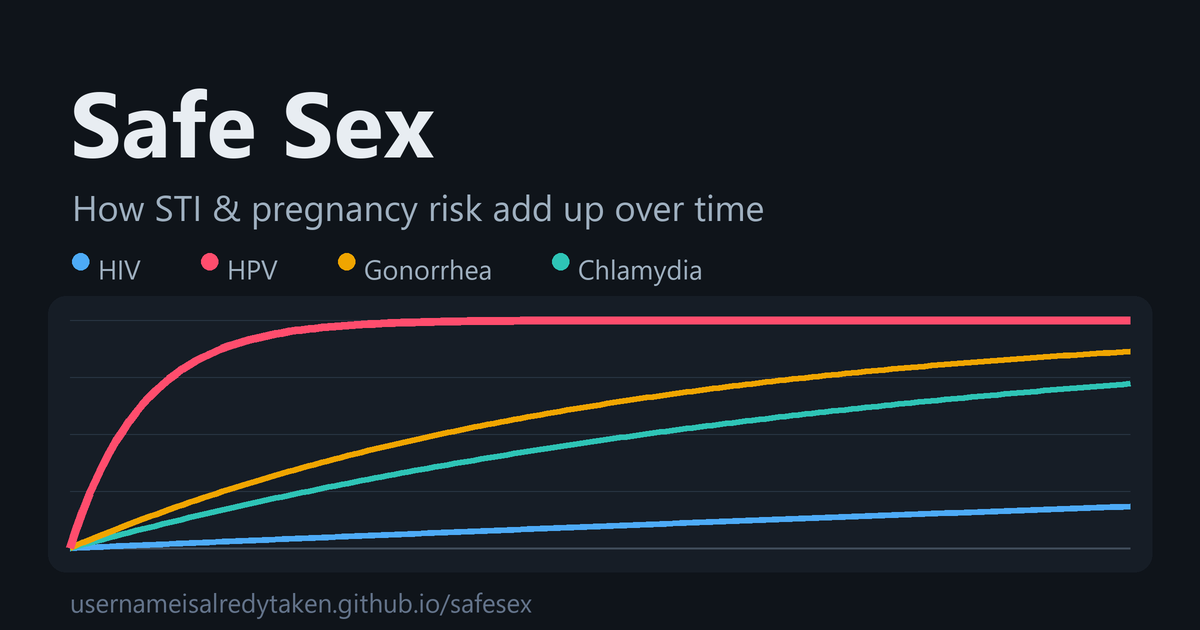
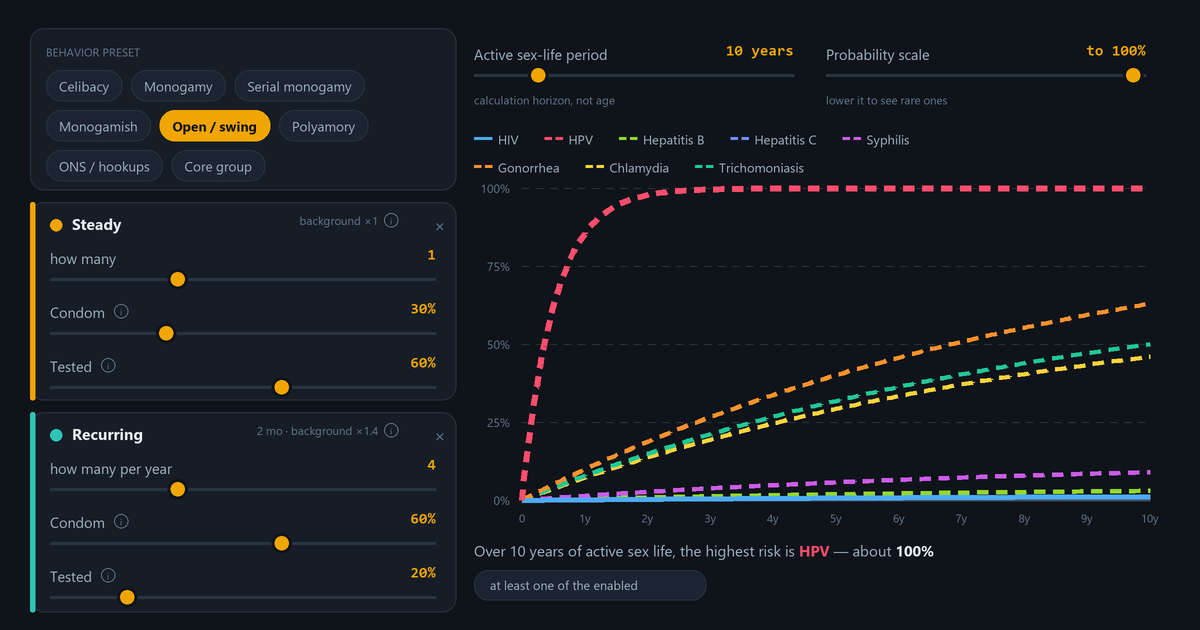
Compact share links; site-like social preview image
- Share link serialization is now compact: short keys, defaults omitted,
  preset index instead of full config, bitmasks for sex acts / hidden
  lines, derived poolMul dropped. A shared link drops from ~1070 chars to
  13 (defaults) / 22 (a preset) / ~80 (fully custom). Backward-compatible
  with the old v:1 links. Verified round-trip on both tabs.
- og.png redrawn to mirror the actual UI (preset pills, partner cards
  with sliders, chart with dashed risk curves + legend) instead of the
  minimalist version; og:image bumped to ?v=2 to bust social caches.

diff --git a/src/App.jsx b/src/App.jsx
@@ -1487,9 +1487,88 @@ function LangSwitch({ lang, setLang }) {
   );
 }
 
-// --- «Поделиться»: состояние ⇄ ссылка (хэш #c=base64url). Hash работает на любом подпути GitHub Pages и без перезагрузки. ---
+// --- «Поделиться»: КОМПАКТНАЯ сериализация состояния ⇄ ссылка (хэш #c=base64url) ---
+// Короткие ключи + пропуск дефолтов + битовые маски + индекс пресета вместо полного cfg.
+// Hash работает на любом подпути GitHub Pages без перезагрузки. Старый формат v:1 принимается как есть.
+const SHARE_TKEYS = ["steady", "casual", "hookup"];
+const STI_KEYS = STIS.map((s) => s.key);
+const PRESET_KEYS = PRESETS.map((p) => p.key);
+const PREG_PRESET_KEYS = PREG_PRESETS.map((p) => p.key);
+const STI_FIELDS = ["count", "condom", "perWeek", "dur", "tested"]; // poolMul — производное, не сериализуем
+const PREG_FIELDS = ["count", "perWeek", "dur", "age"];             // + meth отдельным слотом
+const actsToMask = (a) => ACT_KEYS.reduce((m, k, i) => m | (a && a[k] ? 1 << i : 0), 0);
+const maskToActs = (m) => { const o = {}; ACT_KEYS.forEach((k, i) => { o[k] = !!(m & (1 << i)); }); return o; };
+const DEF_ACTS_MASK = actsToMask({ vagR: true, oralR: true, oralI: true });
+const hiddenToMask = (h) => STI_KEYS.reduce((m, k, i) => m | (h && h[k] ? 1 << i : 0), 0);
+const maskToHidden = (m) => { const o = {}; STI_KEYS.forEach((k, i) => { if (m & (1 << i)) o[k] = true; }); return o; };
+const isDefMeth = (m) => !!m && Object.keys(m).length === 1 && m.condom_m === 100;
+const packStiCfg = (cfg) => SHARE_TKEYS.map((k) => (Math.round(cfg[k].count) > 0 ? STI_FIELDS.map((f) => cfg[k][f]) : 0));
+const unpackStiCfg = (arr) => {
+  const c = mkCfg(); // все count 0, остальное из BASE (incl. poolMul)
+  (arr || []).forEach((a, i) => { if (Array.isArray(a)) STI_FIELDS.forEach((f, j) => (c[SHARE_TKEYS[i]][f] = a[j])); });
+  return c;
+};
+const packPregCfg = (cfg) => SHARE_TKEYS.map((k) => { const t = cfg[k]; return t.count > 0 ? [...PREG_FIELDS.map((f) => t[f]), isDefMeth(t.meth) ? 0 : t.meth] : 0; });
+const unpackPregCfg = (arr) => {
+  const c = mkPregCfg();
+  (arr || []).forEach((a, i) => { if (Array.isArray(a)) { const t = c[SHARE_TKEYS[i]]; PREG_FIELDS.forEach((f, j) => (t[f] = a[j])); t.meth = a[4] ? a[4] : { condom_m: 100 }; } });
+  return c;
+};
+
+function buildShare(s) {
+  const o = { v: 2 };
+  if (s.lang !== "en") o.l = s.lang;
+  if (s.mode !== "sti") o.m = 1;
+  if (s.who !== "woman") o.g = 1;
+  if (s.years !== 10) o.y = s.years;
+  if (s.yMax !== 100) o.ym = s.yMax;
+  // ЗППП: «open» — дефолт (опускаем); другой пресет → индекс; кастом → компактный cfg.
+  // Любая ручная правка обнуляет activePreset, поэтому при наличии пресета cfg всегда = mkCfg(preset).
+  if (s.preset === "open") { /* дефолт */ }
+  else if (s.preset && PRESET_KEYS.indexOf(s.preset) >= 0) o.ps = PRESET_KEYS.indexOf(s.preset);
+  else o.c = packStiCfg(s.cfg);
+  const am = actsToMask(s.acts); if (am !== DEF_ACTS_MASK) o.a = am;
+  const hm = hiddenToMask(s.hidden); if (hm) o.h = hm;
+  if (s.vaxHpv) o.vh = 1;
+  if (s.vaxHbv) o.vb = 1;
+  if (s.selected !== "chl" && STI_KEYS.indexOf(s.selected) >= 0) o.s = STI_KEYS.indexOf(s.selected);
+  if (s.showAny) o.sa = 1;
+  // Беременность — девушка
+  if (s.w && s.w.age !== 26) o.wa = s.w.age;
+  if (s.w && s.w.perWeek !== 3) o.wf = s.w.perWeek;
+  if (!isDefMeth(s.meth)) o.wm = s.meth;
+  // Беременность — парень: «dating» — дефолт (опускаем)
+  if (s.preg === "dating") { /* дефолт */ }
+  else if (s.preg && PREG_PRESET_KEYS.indexOf(s.preg) >= 0) o.pp = PREG_PRESET_KEYS.indexOf(s.preg);
+  else o.mc = packPregCfg(s.mcfg);
+  if (s.manAge !== 28) o.ma = s.manAge;
+  return o;
+}
+
+function parseShare(o) {
+  if (!o || typeof o !== "object") return null;
+  if (o.v === 1) return o; // старый полный формат — уже в форме SHARE_INIT
+  if (o.v !== 2) return null;
+  const r = { lang: o.l || "en", mode: o.m ? "preg" : "sti", who: o.g ? "man" : "woman",
+    years: o.y ?? 10, yMax: o.ym ?? 100, preset: "open", preg: "dating" };
+  if (typeof o.ps === "number" && PRESETS[o.ps]) { r.preset = PRESET_KEYS[o.ps]; r.cfg = mkCfg(PRESETS[o.ps]); }
+  else if (o.c) { r.preset = null; r.cfg = unpackStiCfg(o.c); }
+  if (typeof o.a === "number") r.acts = maskToActs(o.a);
+  if (o.h) r.hidden = maskToHidden(o.h);
+  if (o.vh) r.vaxHpv = true;
+  if (o.vb) r.vaxHbv = true;
+  if (typeof o.s === "number" && STI_KEYS[o.s]) r.selected = STI_KEYS[o.s];
+  if (o.sa) r.showAny = true;
+  if (typeof o.wa === "number" || typeof o.wf === "number") r.w = { age: o.wa ?? 26, perWeek: o.wf ?? 3 };
+  if (o.wm) r.meth = o.wm;
+  if (typeof o.pp === "number" && PREG_PRESETS[o.pp]) { r.preg = PREG_PRESET_KEYS[o.pp]; r.mcfg = mkPregCfg(PREG_PRESETS[o.pp]); }
+  else if (o.mc) { r.preg = null; r.mcfg = unpackPregCfg(o.mc); }
+  if (typeof o.ma === "number") r.manAge = o.ma;
+  return r;
+}
+
 function encodeShare(snap) {
-  try { return btoa(unescape(encodeURIComponent(JSON.stringify(snap)))).replace(/\+/g, "-").replace(/\//g, "_").replace(/=+$/, ""); }
+  try { return btoa(unescape(encodeURIComponent(JSON.stringify(buildShare(snap))))).replace(/\+/g, "-").replace(/\//g, "_").replace(/=+$/, ""); }
   catch { return ""; }
 }
 function decodeShare() {
@@ -1498,7 +1577,7 @@ function decodeShare() {
     const m = h.match(/[#&]c=([^&]+)/);
     if (!m) return null;
     let b = m[1].replace(/-/g, "+").replace(/_/g, "/"); while (b.length % 4) b += "=";
-    return JSON.parse(decodeURIComponent(escape(atob(b))));
+    return parseShare(JSON.parse(decodeURIComponent(escape(atob(b)))));
   } catch { return null; }
 }
 // Накладываем сохранённый конфиг поверх дефолта по каждому типу партнёров (устойчиво к нехватке полей).

diff --git a/index.html b/index.html
@@ -13,7 +13,7 @@
     <meta property="og:title" content="Safe Sex — STI &amp; pregnancy risk over time" />
     <meta property="og:description" content="See how STI and pregnancy risk add up over time — an interactive, illustrative calculator. Not medical advice." />
     <meta property="og:url" content="https://usernameisalredytaken.github.io/safesex/" />
-    <meta property="og:image" content="https://usernameisalredytaken.github.io/safesex/og.png?v=1" />
+    <meta property="og:image" content="https://usernameisalredytaken.github.io/safesex/og.png?v=2" />
     <meta property="og:image:type" content="image/png" />
     <meta property="og:image:width" content="1200" />
     <meta property="og:image:height" content="630" />
@@ -23,7 +23,7 @@
     <meta name="twitter:card" content="summary_large_image" />
     <meta name="twitter:title" content="Safe Sex — STI &amp; pregnancy risk over time" />
     <meta name="twitter:description" content="See how STI and pregnancy risk add up over time. Interactive &amp; illustrative — not medical advice." />
-    <meta name="twitter:image" content="https://usernameisalredytaken.github.io/safesex/og.png?v=1" />
+    <meta name="twitter:image" content="https://usernameisalredytaken.github.io/safesex/og.png?v=2" />
   </head>
   <body style="margin: 0; background: #0f141a;">
     <div id="root"></div>